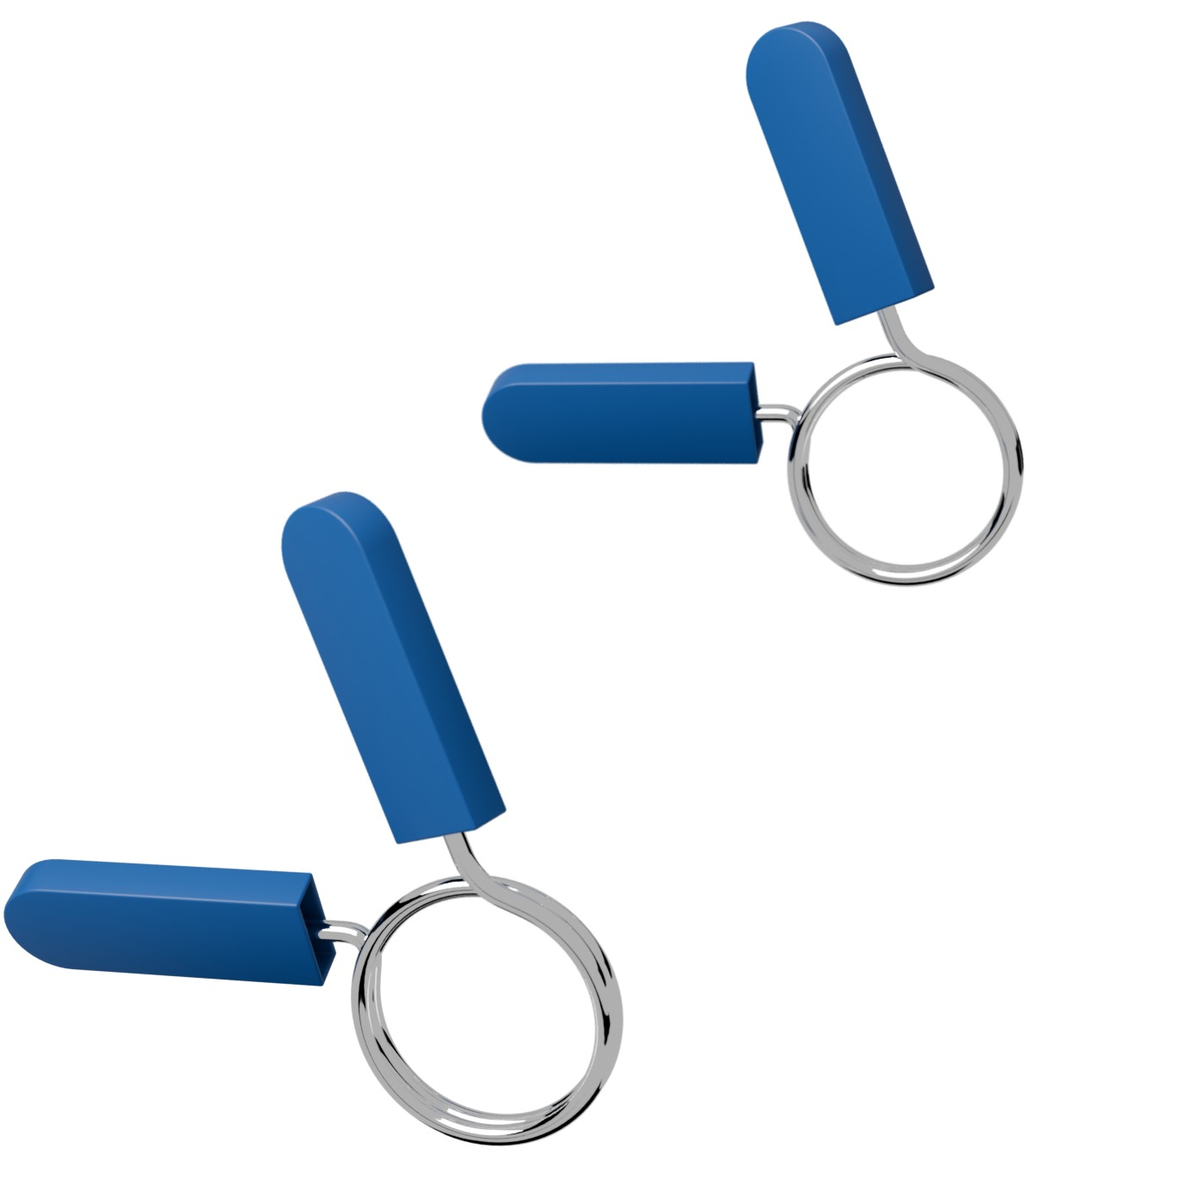
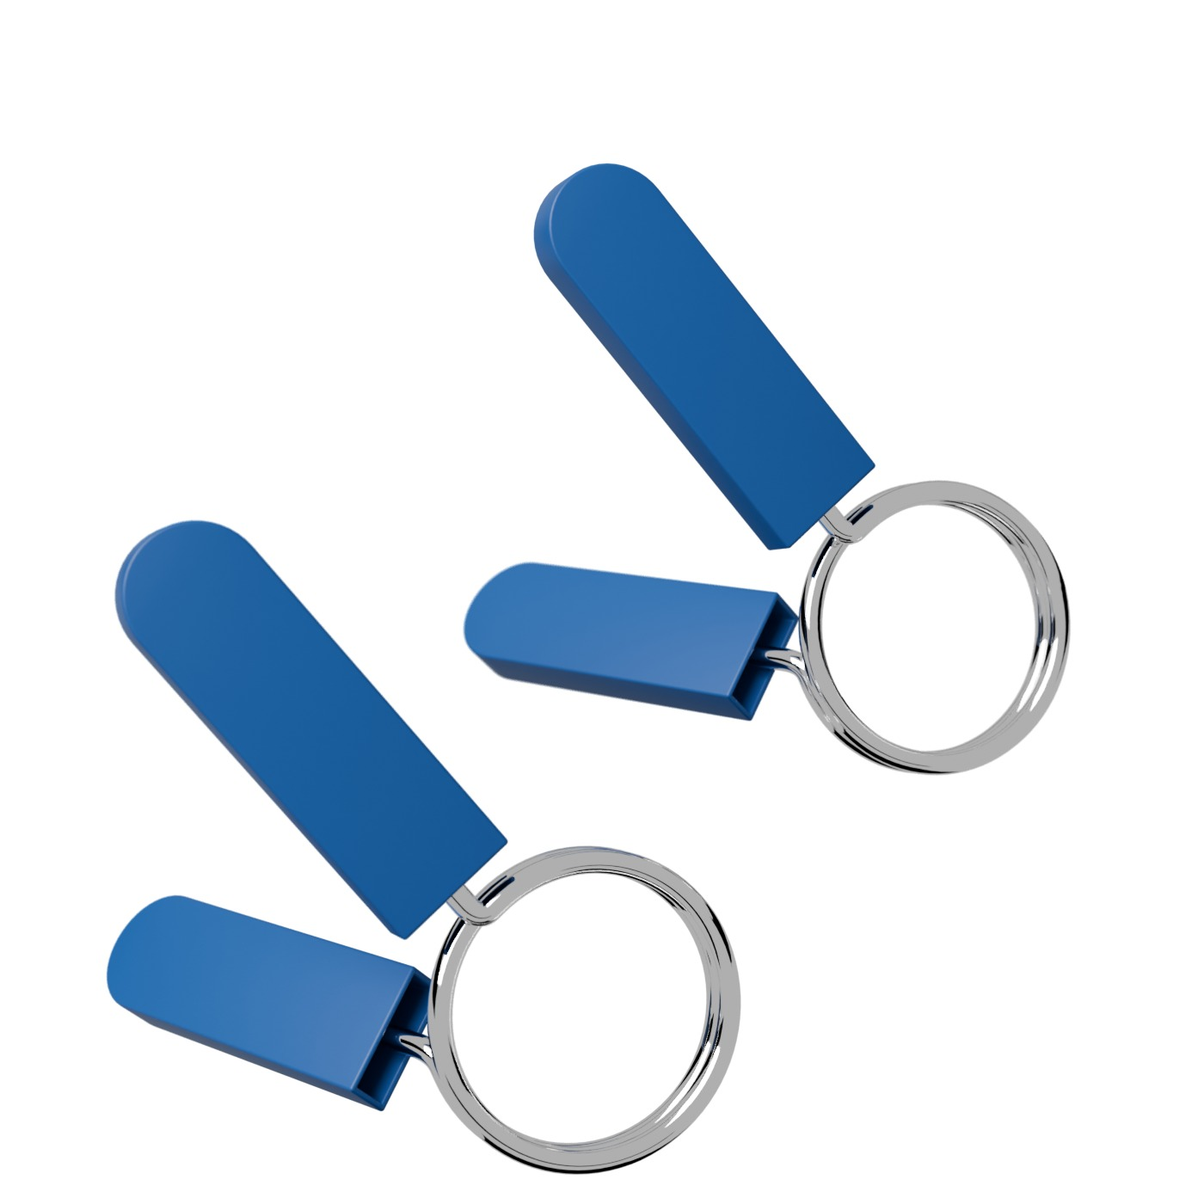
Pince : gaines à plat dans le plan de l'anneau, comme sur la photo de la paire
- Les gaines ne sont plus tournées en travers : elles sont à plat, en V serré
  d'environ 40°, et celle du bas est pliée vers l'arrière.
- Gaines de 84 mm aux arêtes plus douces, paire face à l'objectif, gros plan
  vu de dos comme la photo de référence.
- La vue de profil (un autre modèle) est remplacée par une vue de trois-quarts.
- rendus-colliers.sh accepte « pince » ou « levier » pour ne refaire qu'une pièce.

Claude-Session: https://claude.ai/code/session_01D9n9ZZi5fk6puDFh7TyVoC

Changed region(s): [[0.0, 0.0, 0.8907, 0.9829]]

diff --git a/3d/prototypes/05-colliers/planche.html b/3d/prototypes/05-colliers/planche.html
@@ -16,16 +16,17 @@ figure.l img{width:900px;height:auto;display:block}
 <div class="colw notes">
 <section>
   <div class="stitle">Les deux colliers, d'après tes références</div>
-  <div class="snote">22/11/2026 · étape 7 · la pince à ressort et le collier à levier ; plus de collier en aluminium</div>
+  <div class="snote">22/11/2026 · étape 7 · la pince à ressort (gaines corrigées) et le collier à levier ; plus de collier en aluminium</div>
   <div class="txt">Chaque rendu est placé à côté de ta photo, pris sous le même angle, sur le même fond blanc.</div>
 </section>
 <section>
   <div class="stitle">La pince : l'analyse</div>
   <ul class="list">
     <li><span class="lbl2">Le fil.</span> Un acier chromé miroir d'environ 4,8 mm, deux spires serrées de 50 mm de diamètre intérieur.</li>
-    <li><span class="lbl2">Les branches.</span> Elles sont courtes et coudées. L'une sort du haut de la spirale, l'autre du côté : les deux gaines forment un V bien ouvert.</li>
-    <li><span class="lbl2">Les gaines.</span> Plates, noires et satinées (75 × 26 × 10 mm), ouvertes en rectangle côté fil, arrondies au bout.</li>
-    <li><span class="lbl2">Un détail de tes photos.</span> Sur la paire, la face large des gaines est presque parallèle à la spirale ; sur la vue de profil, elle est presque perpendiculaire. Ce sont sans doute deux modèles un peu différents. J'ai suivi ta photo de la paire, la vue principale, en tournant les gaines sur elles-mêmes : la vue de profil reste crédible.</li>
+    <li><span class="lbl2">Les branches.</span> Elles sont courtes et coudées. L'une sort du haut de l'anneau et monte, l'autre sort du côté avec un petit S.</li>
+    <li><span class="lbl2">Le sens des gaines (corrigé).</span> Les gaines sont à plat, dans le plan de l'anneau : vues de face, on voit leur grande face. Elles forment un V serré d'environ 40° : celle du haut monte en biais à 45°, celle du bas part vers la gauche. Celle du bas est pliée vers l'arrière : sur ta photo, elle paraît plus courte et montre son ouverture.</li>
+    <li><span class="lbl2">Les gaines.</span> Plates, noires et satinées (84 × 26 × 10 mm), ouvertes en rectangle côté fil, arrondies au bout, avec des arêtes douces.</li>
+    <li><span class="lbl2">Ta photo de profil</span> montre un autre modèle, aux gaines tournées d'un quart de tour. Elle n'est plus comparée : j'ai suivi la paire et le gros plan, qui vont ensemble (le gros plan montre la pince de dos).</li>
     <li><span class="lbl2">Le rendu.</span> Le chrome se photographie dans une pièce blanche avec quelques bandes noires. C'est ce qui donne ces reflets clairs coupés de traits sombres.</li>
   </ul>
 </section>
@@ -42,7 +43,7 @@ figure.l img{width:900px;height:auto;display:block}
 <section>
   <div class="stitle">Questions</div>
   <ol class="list">
-    <li>Les deux colliers sont-ils assez proches de tes références ? Qu'est-ce qui diffère encore ?</li>
+    <li>Le sens des gaines de la pince est-il bon maintenant ? Le collier à levier te va-t-il ?</li>
     <li>Le collier par défaut : la pince ou le levier ?</li>
     <li>La couleur va sur les gaines (pince) et sur tout le plastique (levier). Ça te va ?</li>
   </ol>
@@ -50,7 +51,7 @@ figure.l img{width:900px;height:auto;display:block}
 </div>
 <div class="board">
 <section class="big"><div class="stitle">La pince à ressort</div><div class="snote">à gauche ta photo, à droite notre rendu</div>
-  <div class="row"><div class="duo"><figure class="s ref"><img src="../../references/colliers/02-ta-reference-pince-paire.jpeg" alt=""><div class="cap"><b>Ta référence</b> · la paire</div></figure><figure class="s"><img src="pince/noir-paire.jpg" alt=""><div class="cap"><b>Notre rendu</b> · la paire</div></figure></div><div class="duo"><figure class="s ref"><img src="../../references/colliers/01-ta-reference-pince-macro.jpeg" alt=""><div class="cap"><b>Ta référence</b> · de près</div></figure><figure class="s"><img src="pince/noir-macro.jpg" alt=""><div class="cap"><b>Notre rendu</b> · de près</div></figure></div><div class="duo"><figure class="s ref"><img src="../../references/colliers/03-ta-reference-pince-profil.jpeg" alt=""><div class="cap"><b>Ta référence</b> · de profil</div></figure><figure class="s"><img src="pince/noir-profil.jpg" alt=""><div class="cap"><b>Notre rendu</b> · de profil</div></figure></div></div><div class="row"><figure class="p"><img src="pince/noir-sur-barre.jpg" alt=""><div class="cap">Sur la barre, contre un disque</div></figure><figure class="s"><img src="pince/rose-paire.jpg" alt=""><div class="cap">Gaines roses</div></figure><figure class="s"><img src="pince/bleu-paire.jpg" alt=""><div class="cap">Gaines bleues</div></figure><figure class="l"><img src="pince/noir-couleurs.jpg" alt=""><div class="cap">Les huit coloris</div></figure></div></section>
+  <div class="row"><div class="duo"><figure class="s ref"><img src="../../references/colliers/02-ta-reference-pince-paire.jpeg" alt=""><div class="cap"><b>Ta référence</b> · la paire</div></figure><figure class="s"><img src="pince/noir-paire.jpg" alt=""><div class="cap"><b>Notre rendu</b> · la paire</div></figure></div><div class="duo"><figure class="s ref"><img src="../../references/colliers/01-ta-reference-pince-macro.jpeg" alt=""><div class="cap"><b>Ta référence</b> · de près</div></figure><figure class="s"><img src="pince/noir-macro.jpg" alt=""><div class="cap"><b>Notre rendu</b> · de près</div></figure></div></div><div class="row"><figure class="s"><img src="pince/noir-trois-quarts.jpg" alt=""><div class="cap">De trois-quarts : les gaines à plat, celle du bas pliée vers l'arrière</div></figure><figure class="p"><img src="pince/noir-sur-barre.jpg" alt=""><div class="cap">Sur la barre, contre un disque</div></figure><figure class="s"><img src="pince/rose-paire.jpg" alt=""><div class="cap">Gaines roses</div></figure><figure class="s"><img src="pince/bleu-paire.jpg" alt=""><div class="cap">Gaines bleues</div></figure><figure class="l"><img src="pince/noir-couleurs.jpg" alt=""><div class="cap">Les huit coloris</div></figure></div></section>
 <section class="big"><div class="stitle">Le collier à levier</div><div class="snote">à gauche ta photo, à droite notre rendu</div>
   <div class="row"><div class="duo"><figure class="s ref"><img src="../../references/colliers/04-ta-reference-levier.jpeg" alt=""><div class="cap"><b>Ta référence</b> · fermé et ouvert</div></figure><figure class="s"><img src="levier/noir-paire.jpg" alt=""><div class="cap"><b>Notre rendu</b> · fermé et ouvert</div></figure></div><figure class="s"><img src="levier/noir-detail.jpg" alt=""><div class="cap">Le levier et sa grille</div></figure></div><div class="row"><figure class="p"><img src="levier/noir-sur-barre.jpg" alt=""><div class="cap">Sur la barre, contre un disque</div></figure><figure class="s"><img src="levier/rose-paire.jpg" alt=""><div class="cap">Rose</div></figure><figure class="s"><img src="levier/bleu-paire.jpg" alt=""><div class="cap">Bleu</div></figure><figure class="l"><img src="levier/noir-couleurs.jpg" alt=""><div class="cap">Les huit coloris</div></figure></div></section>
 </div></body></html>

diff --git a/3d/outils/blender/colliers.py b/3d/outils/blender/colliers.py
@@ -4,6 +4,7 @@
 #          a three-knuckle hinge on top, a curved lever with a grid pad, black cross-head screws.
 # The colour (sleeves, plastic) is a setting (3d/charte.md). Reuses barre.py, poids3.py, poids2.py and base.py.
 # usage: Blender -b --factory-startup -P colliers.py -- piece=pince|levier plans=paire,macro couleur=noir res=1400 samples=128 out=<dir>
+# 22/11: the clip's sleeves now lie flat in the plane of the ring, as on the user's photo of the pair.
 import os
 HERE = os.path.dirname(os.path.abspath(__file__))
 AS_LIB_BARRE = True
@@ -86,23 +87,22 @@ def square():
 
 
 # ------------------------------------------------------------------ the spring clip
-def sleeve(name, E, h, xc, m, L=0.075, w=0.026, t=0.0105, twist=0.0):
-    """Flat sleeve: open rectangular end at E, rounded tip, broad faces perpendicular to the coil plane.
-    Local axes: X = thickness (in the coil plane), Y = along the sleeve (h), Z = width (world X)."""
+def sleeve(name, E, d, wdir, m, L=0.084, w=0.026, t=0.0105):
+    """Flat sleeve: open rectangular end at E, rounded tip, pointing along d, its width along wdir.
+    As on the user's photos (22/11), the sleeves lie flat: the width stays in the plane of the ring.
+    Local axes: X = thickness, Y = along the sleeve, Z = width."""
     out = [(0.0, -w / 2), (L - w / 2, -w / 2)] + [((L - w / 2) + (w / 2) * math.cos(a), (w / 2) * math.sin(a))
                                                   for a in [math.radians(-90 + 180 * i / 24) for i in range(1, 24)]] + [(L - w / 2, w / 2), (0.0, w / 2)]
     o = fix_normals(prism(name, out, -t / 2, t / 2, m, axis='X'))
-    hy, hz = h
-    v = Vector((0.0, -hz, hy))               # in the coil plane, perpendicular to the sleeve
-    d = Vector((0.0, hy, hz))
-    mtx = Matrix((v, d, Vector((-1.0, 0.0, 0.0)))).transposed().to_4x4()
-    mtx.translation = Vector((xc, E[1], E[2]))
-    mtx = mtx @ Matrix.Rotation(twist, 4, 'Y')       # the sleeve turned a little on its own axis
+    d = d.normalized()
+    wv = (wdir - d * wdir.dot(d)).normalized()
+    mtx = Matrix((d.cross(wv), d, wv)).transposed().to_4x4()
+    mtx.translation = Vector(E)
     o.matrix_world = mtx
     cav = box(name + '_creux', (t - 0.0026, 0.04, w - 0.0026), (0, 0, 0), m)
     cav.matrix_world = mtx @ Matrix.Translation((0.0, 0.019 - 0.0011, 0.0))
     boolean(o, cav)
-    bevel(o, 0.0011, segs=3, angle=35)
+    bevel(o, float(ARGS.get('arrondi', 0.0018)), segs=4, angle=35)
     o = bake(o, 35)
     remove(cav)
     return o
@@ -112,36 +112,61 @@ def bez(a, c, b, n=10):
     return [tuple((1 - t) ** 2 * a + 2 * (1 - t) * t * c + t ** 2 * b) for t in [i / n for i in range(1, n + 1)]]
 
 
+def unit(deg):
+    """A direction in the plane of the ring (YZ), by its angle."""
+    return Vector((0.0, math.cos(math.radians(deg)), math.sin(math.radians(deg))))
+
+
+# The geometry read on the user's photos (22/11): seen face on, the upper sleeve goes up-left at about 45°,
+# the lower one goes left, so the two sleeves make a V of about 40°. Both lie flat (their width in the plane
+# of the ring, not across it); the lower one is bent out of that plane, towards the back of the clip, so on
+# the photo of the pair it looks shorter and shows its open end. Tuned against the photo (keys for tests).
+P_UP = float(ARGS.get('haut', 137))       # upper sleeve, angle in the ring plane
+P_LO = float(ARGS.get('bas', 172))        # lower sleeve, angle in the ring plane
+P_TILT = float(ARGS.get('recul', 60))     # lower sleeve, bent towards the back (-X)
+P_EXIT = float(ARGS.get('sortie', 138))   # where the upper leg leaves the ring
+P_START = float(ARGS.get('debut', 210))   # where the lower leg leaves the ring
+P_ROLL = float(ARGS.get('vrille', 20))    # lower sleeve, turned a little on its own axis
+
+
 def pince2(M, colour='noir', name='pince'):
     rw = 0.0024
     rc = 0.0255 + rw + 0.0003
     pitch = 2 * rw + 0.0002
-    th0, span = math.radians(185), math.radians(615)
+    th0 = math.radians(P_START)
+    th1 = math.radians(P_EXIT + 720)
+    span = th1 - th0
     xs = pitch * span / (2 * math.pi)
-    n = 150
+    n = 160
     coil = []
     for i in range(n + 1):
         th = th0 + span * i / n
         coil.append(Vector((-xs / 2 + xs * i / n, rc * math.cos(th), rc * math.sin(th))))
-    th1 = th0 + span
-    # leg 1 leaves the front end (going backwards round the coil), leg 2 the back end
+    # leg 1 leaves the back end (going backwards round the coil, then an S to the left), leg 2 the front end (up)
     e1 = Vector((0.0, math.sin(th0), -math.cos(th0)))
     e2 = Vector((0.0, -math.sin(th1), math.cos(th1)))
-    h1 = Vector((0.0, math.cos(math.radians(192)), math.sin(math.radians(192))))   # front end, left side: goes left
-    h2 = Vector((0.0, math.cos(math.radians(122)), math.sin(math.radians(122))))   # back end, top: goes up-left
+    h1, h2 = unit(P_LO), unit(P_UP)
+    t = math.radians(P_TILT)
+    d1 = h1 * math.cos(t) + Vector((-1.0, 0.0, 0.0)) * math.sin(t)
     sl = plastic(colour, 'gaine')
     parts = []
     legs = []
-    for P0, e, h in ((coil[0], e1, h1), (coil[-1], e2, h2)):
-        a = P0 + e * 0.004
-        c = a + e * 0.007
-        b = c + h * 0.007
-        E = b + h * 0.006
-        legs.append(([tuple(P0 + e * 0.002), tuple(a)] + bez(a, c, b) + [tuple(E), tuple(E + h * 0.016)], E, h, P0.x))
+    for P0, e, d, h, runs in ((coil[0], e1, d1, h1, (0.002, 0.003, 0.005, 0.005)),
+                              (coil[-1], e2, h2, h2, (0.0012, 0.0028, 0.004, 0.004))):
+        r0, r1, r2, r3 = runs
+        a = P0 + e * r0
+        c = a + e * r1
+        b = c + d * r2
+        E = b + d * r3
+        pts = ([tuple(P0 + e * r0 * 0.5)] if r0 > 0.002 else []) + [tuple(a)] + bez(a, c, b) + [tuple(E), tuple(E + d * 0.016)]
+        wv = Vector((0.0, -h.z, h.y))
+        if d is d1:
+            wv = Matrix.Rotation(math.radians(P_ROLL), 3, d) @ wv
+        legs.append((pts, E, d, wv))
     path = list(reversed(legs[0][0])) + [tuple(p) for p in coil] + legs[1][0]
     parts.append(wire(name + '_fil', path, rw, M['chrome']))
-    for k, (_, E, h, xc) in enumerate(legs):
-        parts.append(sleeve(f'{name}_gaine{k}', E, (h.y, h.z), xc, sl, twist=math.radians(64)))
+    for k, (_, E, d, wv) in enumerate(legs):
+        parts.append(sleeve(f'{name}_gaine{k}', E, d, wv, sl))
     return group(name, parts)
 
 
@@ -246,6 +271,10 @@ def out(plan):
     return os.path.join(OUT, f'collier2-{PIECE}-{COLOUR}-{plan}.png')
 
 
+# the pair, as on the user's photo: the rings face the camera (seen a little from above)
+FACE = (math.radians(-10), math.radians(-13), math.radians(-70))
+
+
 def shot():
     M = collar_mats(COLOUR)
     for plan in PLANS:
@@ -256,31 +285,33 @@ def shot():
         M = collar_mats(COLOUR)
         if PIECE == 'pince':
             if plan == 'paire':
-                a = pince2(M, COLOUR, 'pa'); a.location = (0.058, 0.07, 0.05); a.rotation_euler = (math.radians(-10), 0, math.radians(-104))
-                b = pince2(M, COLOUR, 'pb'); b.location = (-0.045, -0.05, -0.05); b.rotation_euler = (math.radians(-10), 0, math.radians(-104))
+                a = pince2(M, COLOUR, 'pa'); a.location = (0.036, 0.03, 0.03); a.rotation_euler = FACE
+                b = pince2(M, COLOUR, 'pb'); b.location = (-0.036, -0.03, -0.03); b.rotation_euler = FACE
                 chrome_studio(); square()
-                camera((-0.015, -0.5, 0.14), (-0.02, 0.0, 0.03), lens=66, fstop=16)
+                camera((-0.029, -0.42, 0.134), (-0.033, 0.0, 0.042), lens=66, fstop=16)
             elif plan == 'macro':
-                a = pince2(M, COLOUR); a.rotation_euler = (math.radians(12), 0, math.radians(118))
+                # seen from the back and from the left, like the user's close-up: the upper sleeve stands
+                # straight up, the bent one comes towards the camera and goes off to the right
+                a = pince2(M, COLOUR); a.rotation_euler = (math.radians(-47), math.radians(5), math.radians(90))
                 chrome_studio(); square()
-                camera((0.0, -0.27, 0.06), (0.012, 0.0, 0.018), lens=80, fstop=8, focus=(0.012, -0.01, 0.02))
-            elif plan == 'profil':
-                a = pince2(M, COLOUR); a.rotation_euler = (math.radians(128), 0, math.radians(10))
+                camera((-0.13, -0.26, 0.0), (0.02, 0.0, 0.025), lens=80, fstop=11, focus=(0.0, 0.0, 0.0))
+            elif plan == 'trois-quarts':
+                a = pince2(M, COLOUR); a.rotation_euler = (math.radians(-10), 0, math.radians(-35))
                 chrome_studio(); square()
-                camera((0.0, -0.42, 0.0), (0.0, 0.0, -0.038), lens=62, fstop=16)
+                camera((-0.05, -0.295, 0.137), (-0.05, 0.0, 0.03), lens=66, fstop=16)
             elif plan == 'sur-barre':
                 barre_olympique(bar_mats('B', 'noir'))
                 e = disque(20, plate_mats('noir', 'moule'), name='d'); x = 0.686 + e['T'] / 2
                 e.location = (x, 0, 0); e.rotation_euler = (0, 0, math.radians(90))
-                c = pince2(M, COLOUR); c.location = (x + e['T'] / 2 + 0.006, 0, 0); c.rotation_euler = (0, 0, 0)
+                c = pince2(M, COLOUR); c.location = (x + e['T'] / 2 + 0.006, 0, 0); c.rotation_euler = (math.radians(-85), 0, math.radians(180))   # the bent sleeve away from the plate
                 catalog(k=1.05); flags((0.8, 0, 0)); portrait()
                 camera((1.12, -0.33, 0.17), (0.8, 0.0, 0.02), lens=70, fstop=5.6, focus=(x + e['T'] / 2 + 0.01, -0.03, 0.0))
             elif plan == 'couleurs':
                 for i, cname in enumerate(PALETTE):
                     c = pince2(collar_mats(cname), cname, 'k%d' % i)
-                    c.location = (-0.49 + 0.15 * i, 0.0, 0.0303); c.rotation_euler = (0, 0, math.radians(90 - 20))
+                    c.location = (-0.42 + 0.14 * i, 0.0, 0.0303); c.rotation_euler = FACE
                 light_floor(center=(0.0, 0.0, 0.04), k=1.1); flags((0, 0, 0.05), 0.9); setup_render()
-                camera((0.075, -1.55, 0.5), (0.075, 0.02, 0.07), lens=45, fstop=10)
+                camera((0.035, -1.55, 0.5), (0.035, 0.02, 0.07), lens=45, fstop=10)
         else:
             if plan == 'paire':
                 a = levier2(M, False, 'la'); a.location = (-0.058, -0.01, 0.0); a.rotation_euler = (0, 0, math.radians(-128))

diff --git a/3d/outils/planche_colliers.py b/3d/outils/planche_colliers.py
@@ -1,4 +1,5 @@
 # Step 7 (22/11/2026): the two collars reworked from the user's references, shown side by side with them.
+# 22/11, later: the clip's sleeves turned flat, as on the photo of the pair; the profile photo (another model) is no longer compared.
 # Finishes the renders of outils/blender/rendus-colliers.sh into 3d/prototypes/05-colliers/, then writes
 # planche.html and planche.jpg. The board shows the user's references: it stays on the Mac (see .gitignore).
 # usage: python3 3d/outils/planche_colliers.py
@@ -38,9 +39,9 @@ def duo(ref_img, ref_cap, render, cap):
 pince = ''.join([
     duo('02-ta-reference-pince-paire.jpeg', 'la paire', finish('pince', 'noir', 'paire'), 'la paire'),
     duo('01-ta-reference-pince-macro.jpeg', 'de près', finish('pince', 'noir', 'macro'), 'de près'),
-    duo('03-ta-reference-pince-profil.jpeg', 'de profil', finish('pince', 'noir', 'profil'), 'de profil'),
 ])
-pince_plus = (fig(finish('pince', 'noir', 'sur-barre', '#F2F2F3'), 'Sur la barre, contre un disque', 'p')
+pince_plus = (fig(finish('pince', 'noir', 'trois-quarts'), 'De trois-quarts : les gaines à plat, celle du bas pliée vers l\'arrière', 's')
+              + fig(finish('pince', 'noir', 'sur-barre', '#F2F2F3'), 'Sur la barre, contre un disque', 'p')
               + fig(finish('pince', 'rose', 'paire'), 'Gaines roses', 's') + fig(finish('pince', 'bleu', 'paire'), 'Gaines bleues', 's')
               + fig(finish('pince', 'noir', 'couleurs'), 'Les huit coloris', 'l'))
 levier = duo('04-ta-reference-levier.jpeg', 'fermé et ouvert', finish('levier', 'noir', 'paire'), 'fermé et ouvert')
@@ -52,16 +53,17 @@ notes = '''
 <div class="colw notes">
 <section>
   <div class="stitle">Les deux colliers, d'après tes références</div>
-  <div class="snote">22/11/2026 · étape 7 · la pince à ressort et le collier à levier ; plus de collier en aluminium</div>
+  <div class="snote">22/11/2026 · étape 7 · la pince à ressort (gaines corrigées) et le collier à levier ; plus de collier en aluminium</div>
   <div class="txt">Chaque rendu est placé à côté de ta photo, pris sous le même angle, sur le même fond blanc.</div>
 </section>
 <section>
   <div class="stitle">La pince : l'analyse</div>
   <ul class="list">
     <li><span class="lbl2">Le fil.</span> Un acier chromé miroir d'environ 4,8 mm, deux spires serrées de 50 mm de diamètre intérieur.</li>
-    <li><span class="lbl2">Les branches.</span> Elles sont courtes et coudées. L'une sort du haut de la spirale, l'autre du côté : les deux gaines forment un V bien ouvert.</li>
-    <li><span class="lbl2">Les gaines.</span> Plates, noires et satinées (75 × 26 × 10 mm), ouvertes en rectangle côté fil, arrondies au bout.</li>
-    <li><span class="lbl2">Un détail de tes photos.</span> Sur la paire, la face large des gaines est presque parallèle à la spirale ; sur la vue de profil, elle est presque perpendiculaire. Ce sont sans doute deux modèles un peu différents. J'ai suivi ta photo de la paire, la vue principale, en tournant les gaines sur elles-mêmes : la vue de profil reste crédible.</li>
+    <li><span class="lbl2">Les branches.</span> Elles sont courtes et coudées. L'une sort du haut de l'anneau et monte, l'autre sort du côté avec un petit S.</li>
+    <li><span class="lbl2">Le sens des gaines (corrigé).</span> Les gaines sont à plat, dans le plan de l'anneau : vues de face, on voit leur grande face. Elles forment un V serré d'environ 40° : celle du haut monte en biais à 45°, celle du bas part vers la gauche. Celle du bas est pliée vers l'arrière : sur ta photo, elle paraît plus courte et montre son ouverture.</li>
+    <li><span class="lbl2">Les gaines.</span> Plates, noires et satinées (84 × 26 × 10 mm), ouvertes en rectangle côté fil, arrondies au bout, avec des arêtes douces.</li>
+    <li><span class="lbl2">Ta photo de profil</span> montre un autre modèle, aux gaines tournées d'un quart de tour. Elle n'est plus comparée : j'ai suivi la paire et le gros plan, qui vont ensemble (le gros plan montre la pince de dos).</li>
     <li><span class="lbl2">Le rendu.</span> Le chrome se photographie dans une pièce blanche avec quelques bandes noires. C'est ce qui donne ces reflets clairs coupés de traits sombres.</li>
   </ul>
 </section>
@@ -78,7 +80,7 @@ notes = '''
 <section>
   <div class="stitle">Questions</div>
   <ol class="list">
-    <li>Les deux colliers sont-ils assez proches de tes références ? Qu'est-ce qui diffère encore ?</li>
+    <li>Le sens des gaines de la pince est-il bon maintenant ? Le collier à levier te va-t-il ?</li>
     <li>Le collier par défaut : la pince ou le levier ?</li>
     <li>La couleur va sur les gaines (pince) et sur tout le plastique (levier). Ça te va ?</li>
   </ol>

diff --git a/Lis-moi.md b/Lis-moi.md
@@ -73,8 +73,9 @@ Tout est rassemblé dans **`3d/charte.md`** : la police, les coloris, les taille
 - Tes photos sont dans `3d/references/colliers/` : trois de la pince à ressort, une du collier à levier.
 - `3d/prototypes/05-colliers/planche.jpg` : chacune de tes photos à côté de notre rendu, pris sous le même angle, puis les plans en plus (sur la barre, les huit coloris, rose et bleu). La planche reste sur ton Mac, puisqu'elle montre tes photos. On la refait avec `python3 3d/outils/planche_colliers.py`.
 - La pince : fil chromé de 4,8 mm, deux spires serrées, branches coudées, gaines plates ouvertes en rectangle et arrondies au bout.
+- **Ton retour (22/11) :** le sens des gaines n'allait pas. Elles sont maintenant à plat dans le plan de l'anneau, en V serré, et celle du bas est pliée vers l'arrière, comme sur ta photo de la paire. Ta photo de profil montre un autre modèle : elle est remplacée par une vue de trois-quarts.
 - Le collier à levier : deux mâchoires à six lobes articulées en bas, une garniture en caoutchouc, une charnière à trois segments, un levier avec sa grille, des vis cruciformes, montré fermé et ouvert.
-- Le modèle est dans `3d/outils/blender/colliers.py`. Tous les rendus se refont avec `rendus-colliers.sh`.
+- Le modèle est dans `3d/outils/blender/colliers.py`. Tous les rendus se refont avec `rendus-colliers.sh` (ou `rendus-colliers.sh pince` pour la pince seule).
 
 **Tes références :** dépose tes images de machines dans `3d/references/` (elles restent sur ton Mac).
 

diff --git a/3d/charte.md b/3d/charte.md
@@ -71,6 +71,7 @@ Les petites mentions (« KG » sur les disques) sont ton sur ton : de la couleur
 ### Les colliers
 
 Deux modèles seulement : **la pince à ressort** et **le collier à levier**, d'après les références de l'utilisateur (étape 7, en cours de validation).
+- **La pince :** les gaines sont à plat dans le plan de l'anneau (jamais tournées en travers). Elles forment un V serré d'environ 40°, et celle du bas est pliée vers l'arrière.
 
 ## Gardé de côté
 
